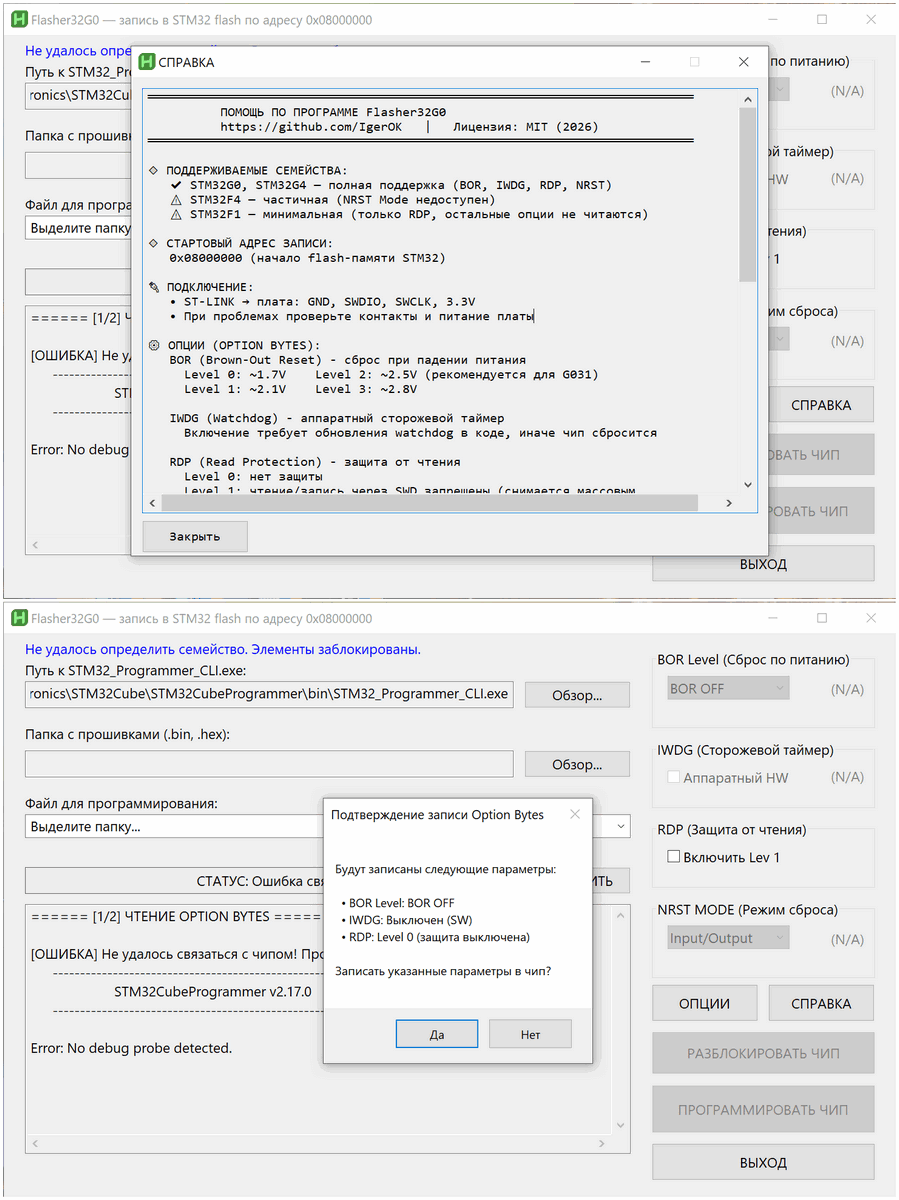
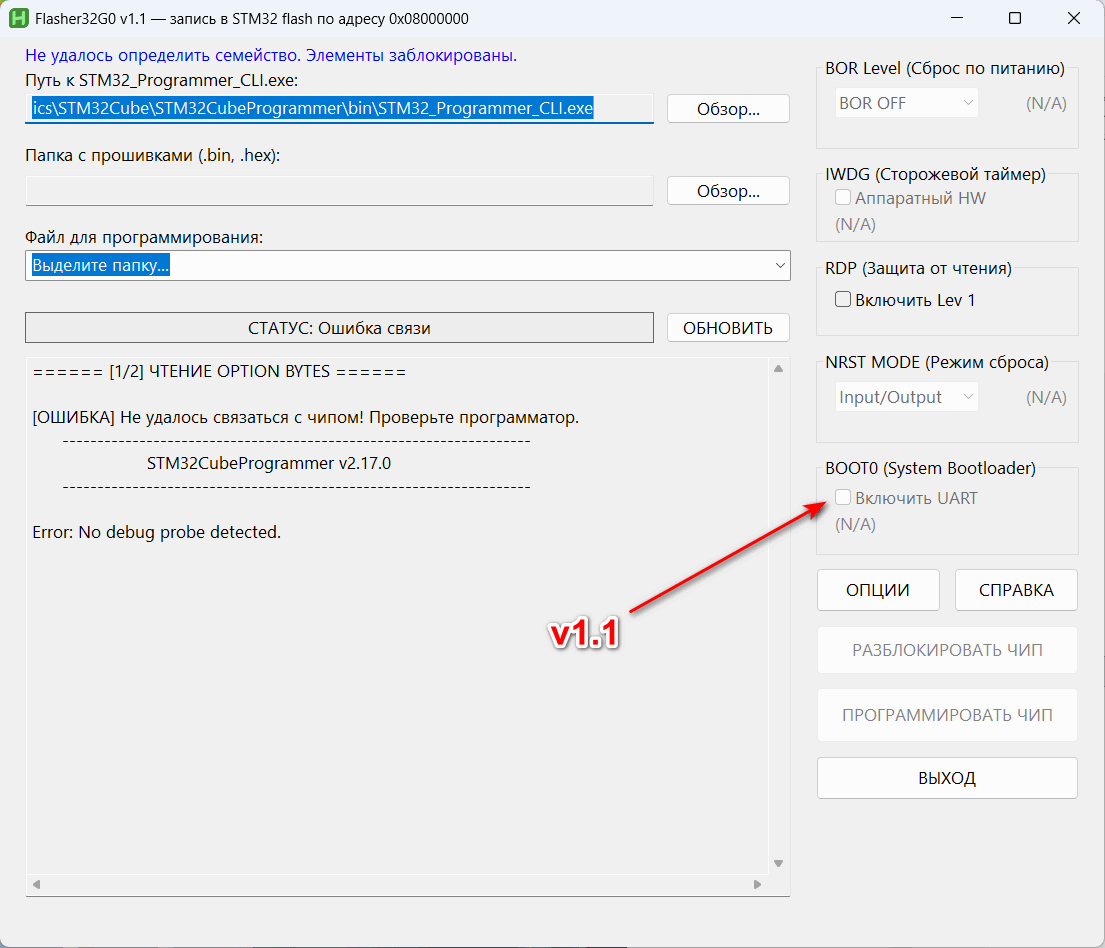
Update README screenshot to v1.1 (BOOT0 section); add option-bytes preview reference

diff --git a/.project-memory/.in-progress.md b/.project-memory/.in-progress.md
@@ -3,15 +3,10 @@
 Волновой след сессии: агент дописывает краткие заметки по ходу работы, а не только в конце.
 При старте сессии, если `status: open` — предыдущая сессия завершилась аварийно; заметки восстанавливаются по протоколу в `AGENTS.md`.
 
-status: closed
+status: open
 started: 2026-11-21
-request: (1) Лаконичное пояснение IWDG в справке; (2) показать в README отличия v1.1 от v1.0 (на GitHub всё ещё v1.0).
+request: Обновлённый скриншот v1.1 (screenshot.png) — заменить старый v1.0 в репо.
 
 ## Entries
 
-- открыт блокнот (IWDG-пояснение + история версий)
-- AHK-справка: IWDG-блок (3 строки), коммит ee90e00
-- README: новая секция «📋 История версий» (v1.1 / v1.0), коммит bdbb27d
-- пересобранный .exe закоммичен a2467bf
-- память проекта синхронизирована (TASK/CONTEXT/SESSIONS), блокнот закрыт
-- пуш на GitHub НЕ делался — ждёт явного запроса
+- открыт блокнот (замена скриншота в README)
